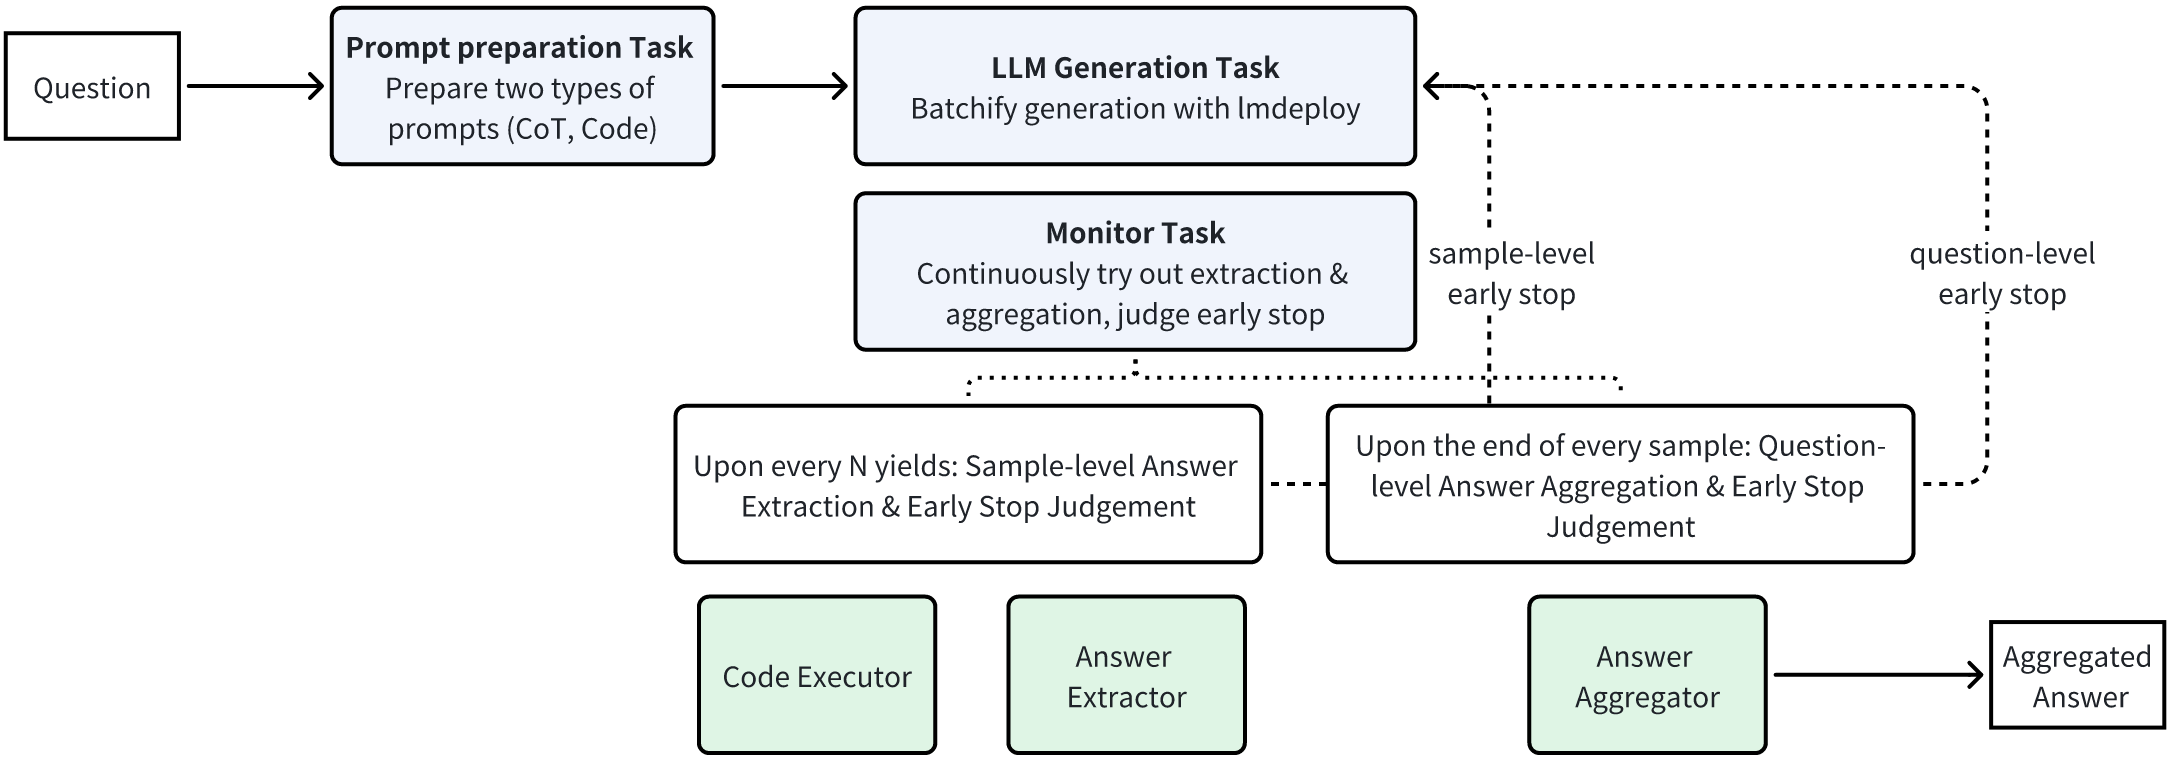
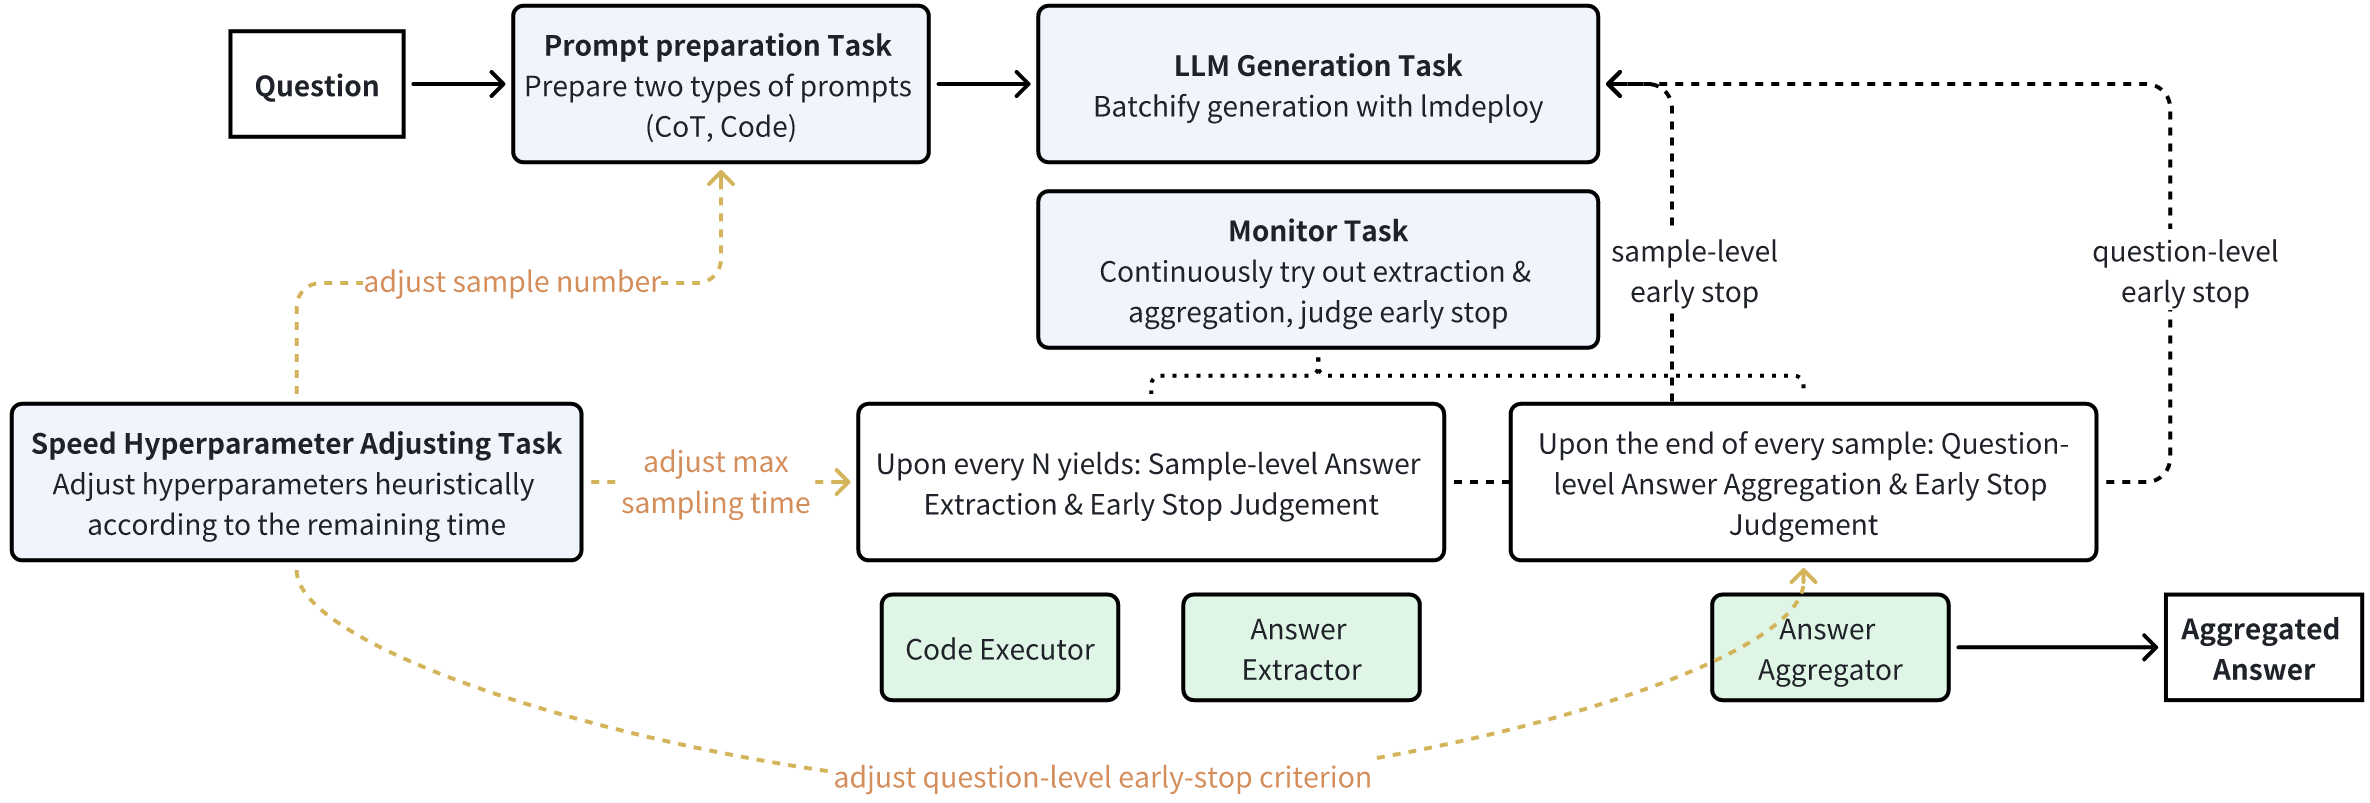
Update README: update inference workflow; add a local platform note

diff --git a/README.md b/README.md
@@ -13,7 +13,7 @@ This competition required optimizing both efficiency and reasoning performance. 
 
 * Part I: **Reasoning-Oriented Training** -- *Improve the model's reasoning ability*: Stage 1 - SFT and Stage 2 - DPO with selected data.
 * Part II: **Efficiency Optimization** -- *Improve inference efficiency*: Selecting a suitable inference engine, weight quantization, KV cache quantization.
-* Part III: **Inference-Time Strategies** -- *Improve efficiency-reasoning performance trade-off*: Prompt design, self-consistency aggregation, sample-level/question-level early stopping, and hyperparameter tweaking.
+* Part III: **Inference-Time Strategies** -- *Improve efficiency-reasoning performance trade-off*: Prompt design, self-consistency aggregation, sample-level/question-level early stopping, and some heuristic hyperparameter adjusting.
 
 For local validation, we used the AIME 2025 test set (30 problems) along with the reference set (10 problems), evaluating both average sample accuracy and aggregated accuracy (via self-consistency) to obtain preliminary judgments of our trial solutions.
 
@@ -134,7 +134,7 @@ We apply 4-bit AWQ weight quantization (by calling [`scripts/awq_quantize.py`](s
   <img src="./figs/output_speed.png" width="60%" />
 </p>
 
-* Local test (2xA100, batch size=32): W4KV8, W4KV16 decreases the overall latency by 40% and 20%-25% compared with FP16, respectively.
+* Local test (2xA800, batch size=32): W4KV8, W4KV16 decreases the overall latency by 40% and 20%-25% compared with FP16, respectively.
 
 **Some reasoning performance results**:
 
@@ -144,12 +144,14 @@ We apply 4-bit AWQ weight quantization (by calling [`scripts/awq_quantize.py`](s
 
 ### Overall Inference Workflow
 
-The inference workflow is shown in the figure below: A question is provided as the input. We first prepare two types of prompts, including the CoT prompt and the Code prompt ("Prompt Preparation Task"). Then, we let the LLM start batchify generation (15 samples) with `lmdeploy` ("LLM Generation Task"). In the mean time, we continuouly try extract the answer from the streaming output of each sample, aggregate the answers of multiple samples, and judge whether to early stop some generation:
+The inference workflow is shown in the figure below: A question is provided as the input. We first prepare two types of prompts, including the CoT prompt and the Code prompt ("Prompt Preparation Task"). Then, we let the LLM start batchify generation of multiple samples with `lmdeploy` ("LLM Generation Task"). In the mean time, we continuouly try extract the answer from the streaming output of each sample, aggregate the answers of multiple samples, and judge whether to early stop some generation:
 
 1. We do sample-level checking upon every N yields from the iterator got by the `stream_infer(...)` call, and judge whether to early stop the generation of the corresponding sample. The Python code executor and answer extractor components are used here.
 2. We do question-level checking upon the end of every sample, and judge whether to early stop the generation of all remaining samples of the current question. The answer aggregator component is used here.
 
 Finally, we return the aggregated answer.
+
+Note that, for each question, we adjust the speed-related hyperparameters (number of samples, sampling-level max time, question-level early-stop criterion) according to the remaining time, so that the time quota can be allocated in a more balanced way across the remaining questions when the remaining time is limited.
 
 ![Inference workflow](./figs/inference_workflow.png)
 
@@ -157,7 +159,9 @@ Finally, we return the aggregated answer.
 
 **Method**:
 
-* We use 15 samples for one question, and aggregate their answers by self-consistency. Note that we don't necessarily aggregate the answers of all samples, see [discussions below](#question-level-answer-aggregation--early-stopping) for more details.
+* Initially, we use 15 samples for one question, and aggregate their answers by self-consistency.
+  * Note that we don't necessarily aggregate the answers of all samples, see [discussions below](#question-level-answer-aggregation--early-stopping) for more details.
+  * Note that we decrease the number of samples when there is limited time left, see [discussions below](#speed-hyperparameter-adjusting) for more details.
 * We use the commonly used code-based reasoning: (1) Prompt the model to provide Python code to solve the problem; (2) Extract Python code from the output, create a subprocess to execute the code; (3) Extract the answer from the execution results.
 * We use two types of prompts - a CoT prompt and a Code prompt. Among 15 samples, 7 samples use the CoT prompt and 8 samples use the Code prompt:
 
@@ -210,10 +214,13 @@ We use the commonly used self-consistency method for answer aggregation. We use 
 
 **Method**: We can stop generation early for a question if sufficient certainty is achieved by examining the existing answers. Specifically, we terminate generation at the question level when a majority of the outputs are consistent, e.g., if 5 out of 7 answers agree. See the configurations in `early_stop_strategy.consistency_rules` in [`imagination_aimo2/local_eval_kaggle.py`](imagination_aimo2/local_eval_kaggle.py).
 
+### Speed Hyperparameter Adjusting
+(TODO @yyc)
+
 ## Team and Acknowledgement
 
-* Yichen You (youyc22@mails.tsinghua.edu.cn)
-* Xuefei Ning (foxdoraame@gmail.com, project leader)
-* Zinan Lin (linzinan1995@126.com)
+* Yichen You: youyc22@mails.tsinghua.edu.cn, Tsinghua University
+* Xuefei Ning: foxdoraame@gmail.com, Tsinghua University, project leader
+* Zinan Lin: linzinan1995@126.com, Microsoft Research
 
-We are thankful for many helpful online forum discussions and notebooks. We thank Shiyao Li for discussions, Infinigence-AI for providing 8 A100 GPUs in the early months and 16-24 A100 GPUs in the final two weeks.
+We are thankful for many helpful online forum discussions and notebooks. We thank Shiyao Li for discussions, Infinigence-AI for providing 8 A800 GPUs in the early months and 16-24 A800 GPUs in the final two weeks (our local machines have Intel(R) Xeon(R) Platinum 8358P CPU @ 2.60GHz and 8 NVIDIA A800 GPUs).
